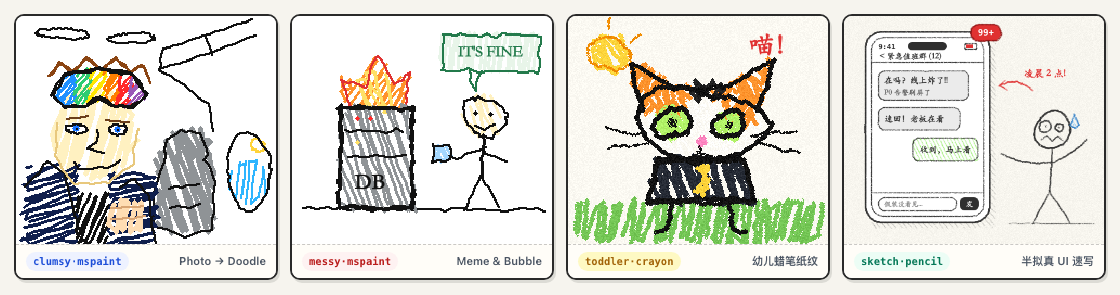
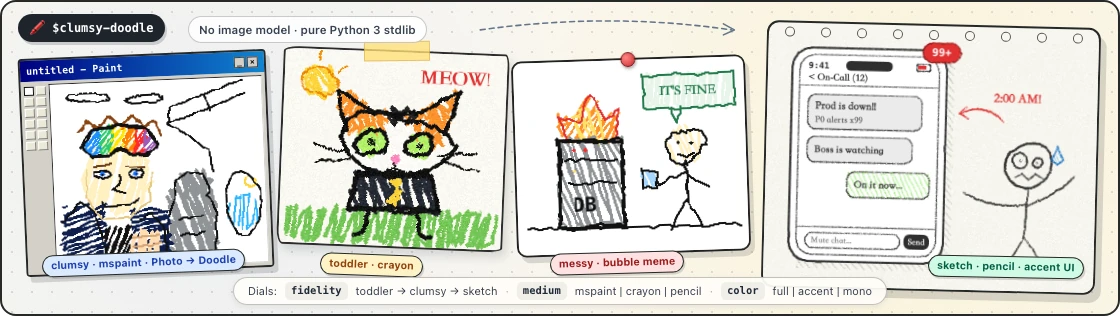
Redesign bilingual desk-collage README showcases for clumsy-doodle
- Replace rigid 4-box showcase.webp with lively English and Chinese desk-collage WebP banners (82 KB each)
- Point public-meta/README.zh-CN.md to ./clumsy-doodle/assets/showcase.zh-CN.webp and update SKILL.md asset list

diff --git a/clumsy-doodle/SKILL.md b/clumsy-doodle/SKILL.md
@@ -99,4 +99,4 @@ Note on text labels:
 - `references/photo-to-doodle.md` — multimodal anchor distillation and critique loop.
 - `assets/examples/` — runnable JSON specimens (`sam-helicopter.json`,
   `db-on-fire.json`, `toddler-cat.json`, `agent-loop-zh.json`,
-  `phone-alert-sketch.json`) and `assets/showcase.webp`.
+  `phone-alert-sketch.json`), `assets/showcase.webp`, and `assets/showcase.zh-CN.webp`.
